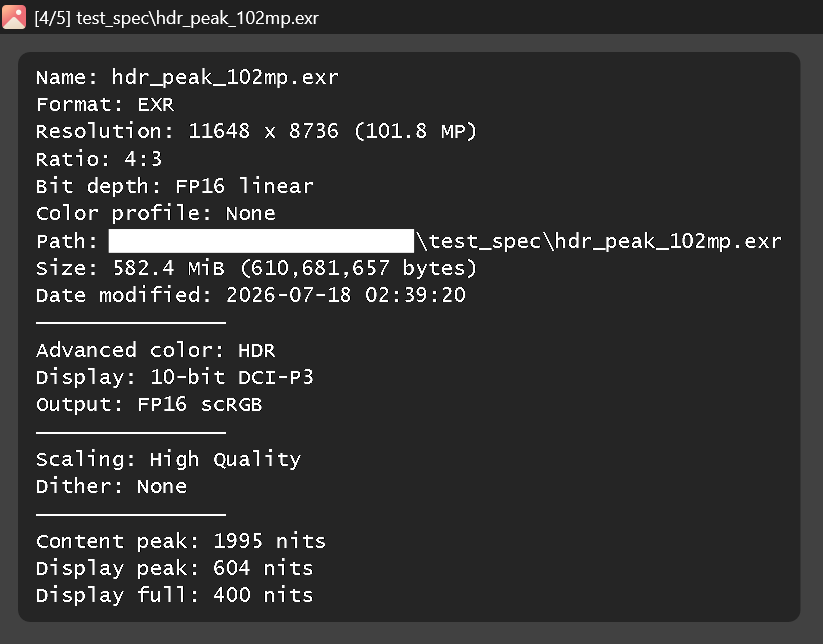
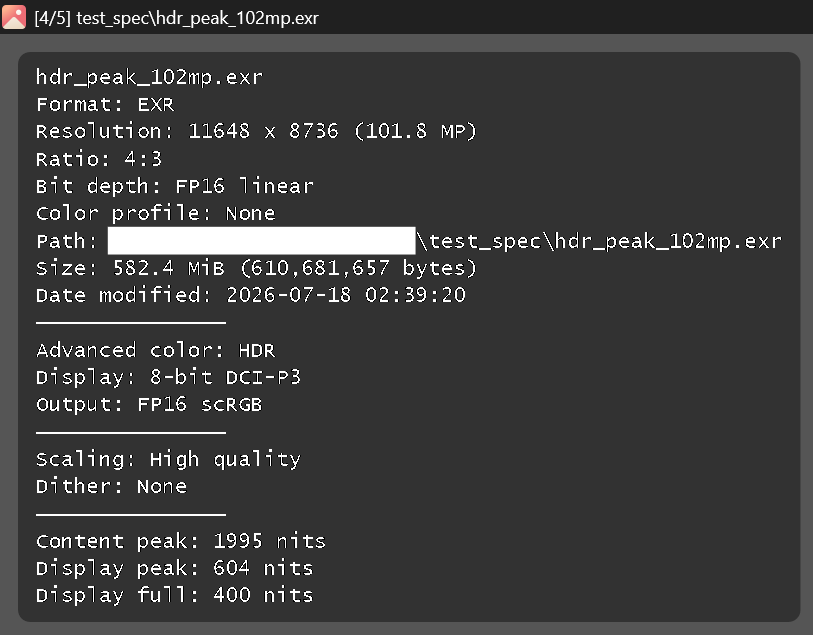
Refresh the screenshots and add DIB to the format table
The info panel screenshot still carried the dropped Name label and the
old title-case scaling value; the new capture shows the bare file name
line and "High quality". The context menu screenshot is retaken
alongside on the current build. The README's WIC row gains DIB, which
the decoder registry has accepted all along.

Changed region(s): [[0.0308, 0.0898, 0.9533, 0.9575], [0.0308, 0.0, 0.3998, 0.0598]]

diff --git a/README.md b/README.md
@@ -74,7 +74,7 @@ Decoded by Windows Imaging Component codecs:
 | JPEG | Ultra HDR |
 | JPEG XR | HDR / Tone map |
 | DDS | BC1-BC3 |
-| BMP, GIF, ICO, PNG, TIFF | |
+| BMP, DIB, GIF, ICO, PNG, TIFF | |
 
 Archives browsable as image folders:
 zip, 7z, rar, tar, and cbz / cbr / cb7 / cbt.
